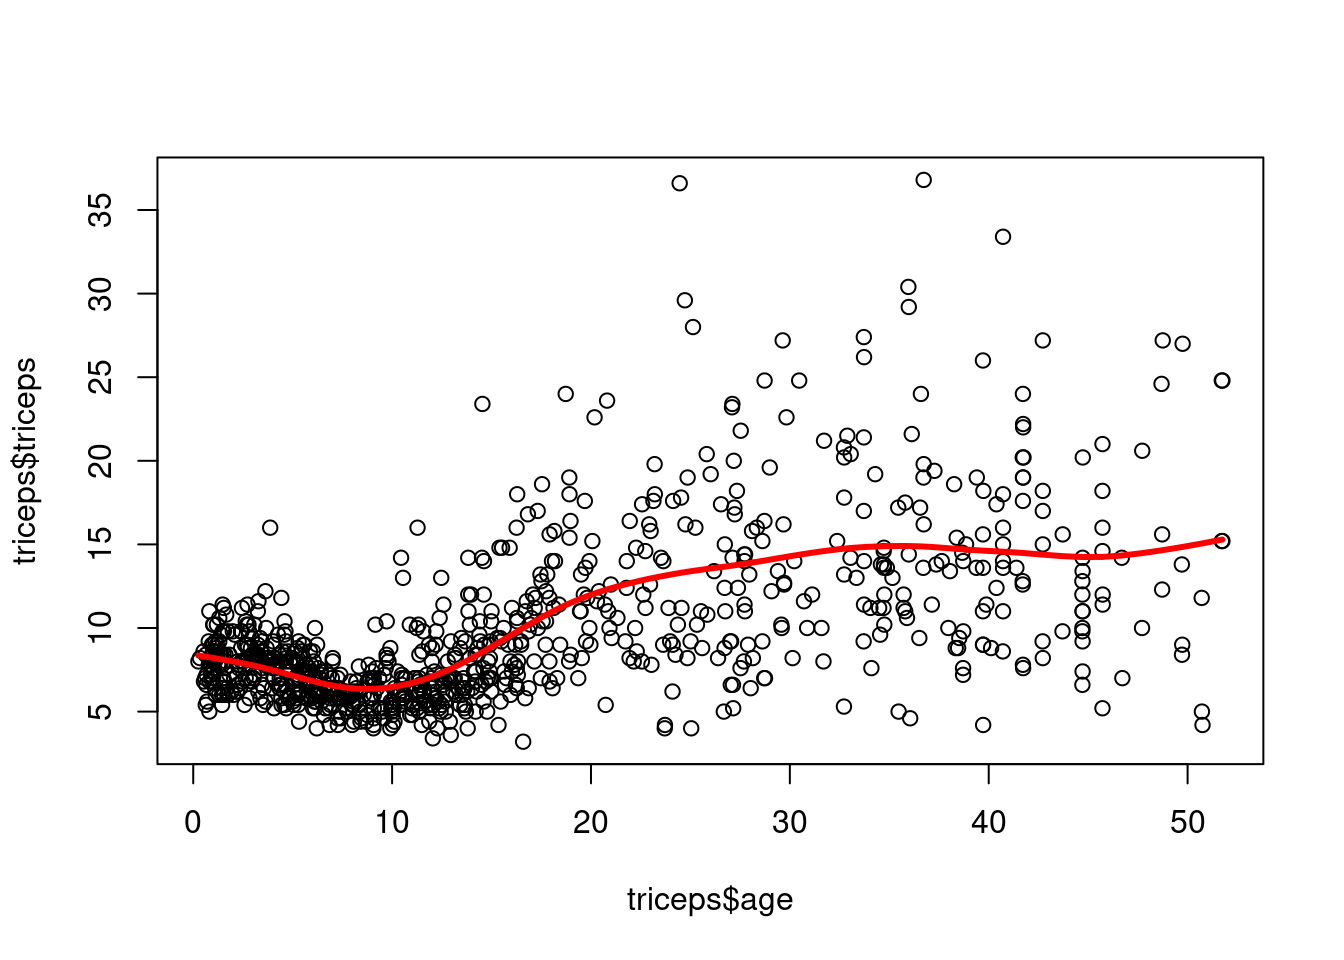
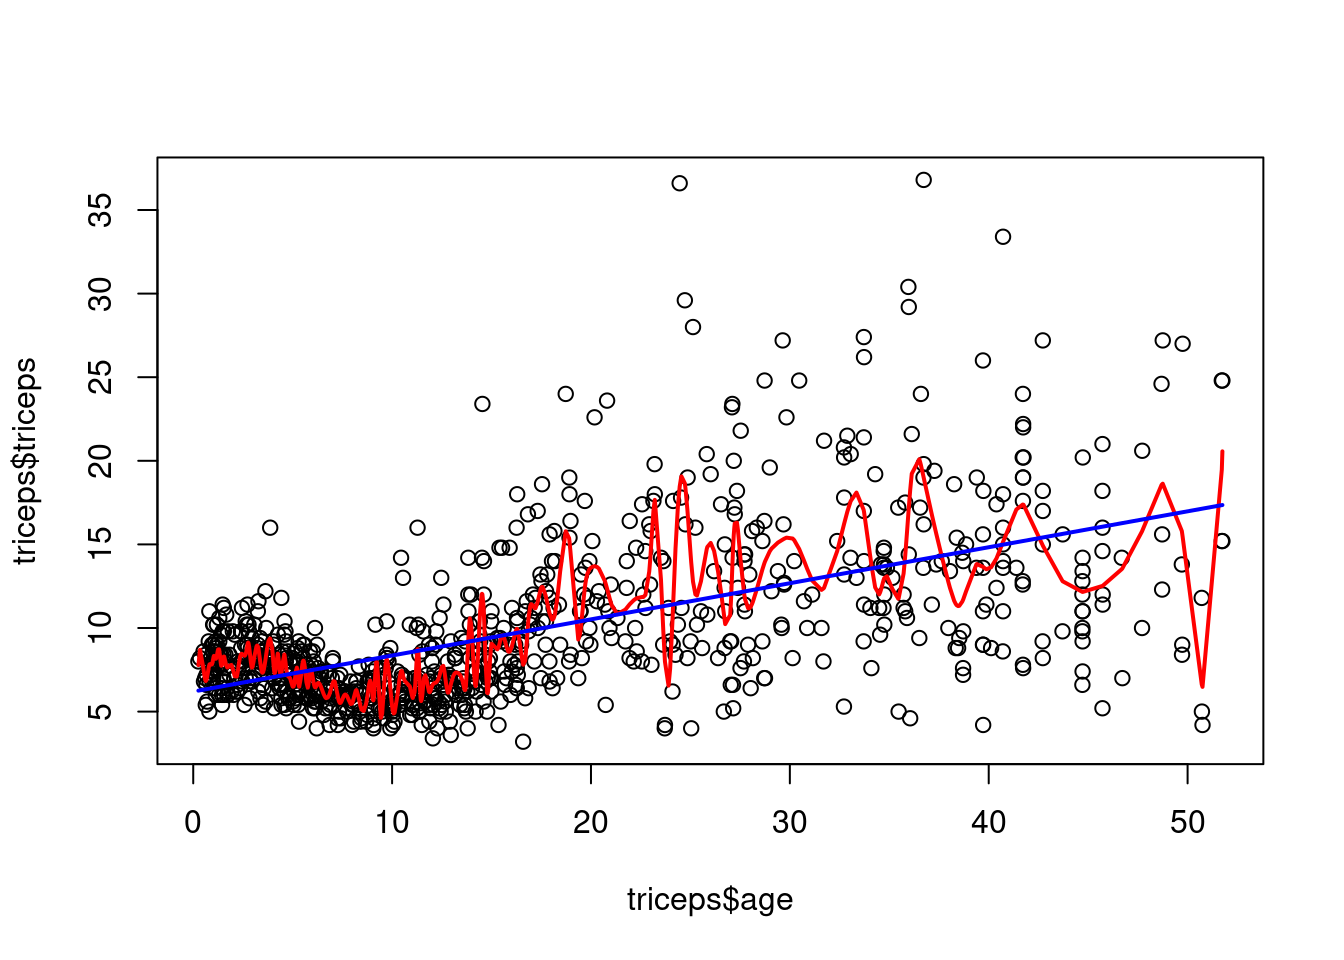
smoothspline new

Changed region(s): [[0.125, 0.4688, 0.9375, 0.75]]

diff --git a/docs/posts/fromLMtoSplines/index.html b/docs/posts/fromLMtoSplines/index.html
@@ -202,7 +202,13 @@ code span.wa { color: #60a0b0; font-weight: bold; font-style: italic; } /* Warni
   <li><a href="#natural-spline" id="toc-natural-spline" class="nav-link" data-scroll-target="#natural-spline">Natural Spline</a></li>
   </ul>
 </li>
-  <li><a href="#smoothing-splines" id="toc-smoothing-splines" class="nav-link" data-scroll-target="#smoothing-splines">Smoothing splines</a></li>
+  <li>
+<a href="#smoothing-splines" id="toc-smoothing-splines" class="nav-link" data-scroll-target="#smoothing-splines">Smoothing splines</a>
+  <ul class="collapse">
+<li><a href="#lambda-determined-with-cross-validation" id="toc-lambda-determined-with-cross-validation" class="nav-link" data-scroll-target="#lambda-determined-with-cross-validation"><span class="math inline">\(\lambda\)</span> determined with cross-validation</a></li>
+  <li><a href="#no-smooth-and-max-smooth" id="toc-no-smooth-and-max-smooth" class="nav-link" data-scroll-target="#no-smooth-and-max-smooth">No smooth and max smooth</a></li>
+  </ul>
+</li>
   <li><a href="#generalized-additive-model" id="toc-generalized-additive-model" class="nav-link" data-scroll-target="#generalized-additive-model">Generalized additive model</a></li>
   </ul></nav>
     </div>
@@ -474,6 +480,8 @@ Attaching package: 'psych'</code></pre>
 \tag{1}\]</span></span></p>
 <p>where <span class="math inline">\(\lambda\)</span> is a fixed smoothing parameter. The first term measures closeness to the data, while the second term penalizes curvature in the function, and <span class="math inline">\(\lambda\)</span> establishes a tradeoff between the two. Special cases: <span class="math inline">\(\lambda=0\)</span> (no constraint on <span class="math inline">\(f\)</span>) and <span class="math inline">\(\lambda=\infty\)</span> (<span class="math inline">\(f\)</span> has to be linear).</p>
 <p>The function <span class="math inline">\(f(x)\)</span> that minimizes (<a href="#eq-RSS">Equation&nbsp;1</a>) can be shown to have some special properties: it is a piecewise cubic polynomial with knots at the unique values of <span class="math inline">\(x_1,\dots,x_n\)</span> and continuous first and second derivatives at each knot. Furthermore, it is linear in the region outside of the extreme knots. In other words, the function <span class="math inline">\(f(x)\)</span> that minimizes (<a href="#eq-RSS">Equation&nbsp;1</a>) is a natural cubic spline with knots at <span class="math inline">\(x_1,\dots,x_n\)</span> ! However, it is not the same natural cubic spline that one would get if one applied the basis function approach described above – rather, it is a shrunken version of such a natural cubic spline, where the value of the tuning parameter <span class="math inline">\(\lambda\)</span> in (<a href="#eq-RSS">Equation&nbsp;1</a>) controls the level of shrinkage.</p>
+<section id="lambda-determined-with-cross-validation" class="level2"><h2 class="anchored" data-anchor-id="lambda-determined-with-cross-validation">
+<span class="math inline">\(\lambda\)</span> determined with cross-validation</h2>
 <div class="cell">
 <details><summary>Code</summary><div class="sourceCode" id="cb20"><pre class="downlit sourceCode r code-with-copy"><code class="sourceCode R"><span><span class="va">sspline</span> <span class="op">&lt;-</span> <span class="fu"><a href="https://rdrr.io/r/stats/smooth.spline.html">smooth.spline</a></span><span class="op">(</span>x<span class="op">=</span><span class="va">triceps</span><span class="op">$</span><span class="va">age</span>, y<span class="op">=</span><span class="va">triceps</span><span class="op">$</span><span class="va">triceps</span>, cv<span class="op">=</span><span class="cn">TRUE</span><span class="op">)</span></span></code><button title="Copy to Clipboard" class="code-copy-button"><i class="bi"></i></button></pre></div>
 </details><div class="cell-output cell-output-stderr">
@@ -486,19 +494,30 @@ seems doubtful</code></pre>
 <p><img src="index_files/figure-html/unnamed-chunk-20-1.png" class="img-fluid" width="672"></p>
 </div>
 </div>
+</section><section id="no-smooth-and-max-smooth" class="level2"><h2 class="anchored" data-anchor-id="no-smooth-and-max-smooth">No smooth and max smooth</h2>
+<div class="cell">
+<details><summary>Code</summary><div class="sourceCode" id="cb23"><pre class="downlit sourceCode r code-with-copy"><code class="sourceCode R"><span><span class="va">ssplineNosmooth</span> <span class="op">&lt;-</span> <span class="fu"><a href="https://rdrr.io/r/stats/smooth.spline.html">smooth.spline</a></span><span class="op">(</span>x<span class="op">=</span><span class="va">triceps</span><span class="op">$</span><span class="va">age</span>, y<span class="op">=</span><span class="va">triceps</span><span class="op">$</span><span class="va">triceps</span>, lambda<span class="op">=</span><span class="fl">0</span><span class="op">)</span></span>
+<span><span class="va">ssplineMaxsmooth</span> <span class="op">&lt;-</span> <span class="fu"><a href="https://rdrr.io/r/stats/smooth.spline.html">smooth.spline</a></span><span class="op">(</span>x<span class="op">=</span><span class="va">triceps</span><span class="op">$</span><span class="va">age</span>, y<span class="op">=</span><span class="va">triceps</span><span class="op">$</span><span class="va">triceps</span>, lambda<span class="op">=</span><span class="fl">100</span><span class="op">)</span></span>
+<span><span class="fu"><a href="https://rdrr.io/r/graphics/plot.default.html">plot</a></span><span class="op">(</span><span class="va">triceps</span><span class="op">$</span><span class="va">age</span>, <span class="va">triceps</span><span class="op">$</span><span class="va">triceps</span><span class="op">)</span></span>
+<span><span class="fu"><a href="https://rdrr.io/r/graphics/lines.html">lines</a></span><span class="op">(</span><span class="va">ssplineNosmooth</span>, lwd<span class="op">=</span><span class="fl">2</span>,col<span class="op">=</span><span class="st">"red"</span><span class="op">)</span></span>
+<span><span class="fu"><a href="https://rdrr.io/r/graphics/lines.html">lines</a></span><span class="op">(</span><span class="va">ssplineMaxsmooth</span>, lwd<span class="op">=</span><span class="fl">2</span>,col<span class="op">=</span><span class="st">"blue"</span><span class="op">)</span></span></code><button title="Copy to Clipboard" class="code-copy-button"><i class="bi"></i></button></pre></div>
+</details><div class="cell-output-display">
+<p><img src="index_files/figure-html/unnamed-chunk-22-1.png" class="img-fluid" width="672"></p>
+</div>
+</div>
 <div class="cell">
 
 </div>
-</section><section id="generalized-additive-model" class="level1"><h1>Generalized additive model</h1>
+</section></section><section id="generalized-additive-model" class="level1"><h1>Generalized additive model</h1>
 <div class="cell">
-<details><summary>Code</summary><div class="sourceCode" id="cb23"><pre class="downlit sourceCode r code-with-copy"><code class="sourceCode R"><span><span class="kw"><a href="https://rdrr.io/r/base/library.html">library</a></span><span class="op">(</span><span class="va">mgcv</span><span class="op">)</span></span></code><button title="Copy to Clipboard" class="code-copy-button"><i class="bi"></i></button></pre></div>
+<details><summary>Code</summary><div class="sourceCode" id="cb24"><pre class="downlit sourceCode r code-with-copy"><code class="sourceCode R"><span><span class="kw"><a href="https://rdrr.io/r/base/library.html">library</a></span><span class="op">(</span><span class="va">mgcv</span><span class="op">)</span></span></code><button title="Copy to Clipboard" class="code-copy-button"><i class="bi"></i></button></pre></div>
 </details><div class="cell-output cell-output-stderr">
 <pre><code>Loading required package: nlme</code></pre>
 </div>
 <div class="cell-output cell-output-stderr">
 <pre><code>This is mgcv 1.8-35. For overview type 'help("mgcv-package")'.</code></pre>
 </div>
-<details><summary>Code</summary><div class="sourceCode" id="cb26"><pre class="downlit sourceCode r code-with-copy"><code class="sourceCode R"><span><span class="va">gamtri</span><span class="op">&lt;-</span><span class="fu"><a href="https://rdrr.io/pkg/mgcv/man/gam.html">gam</a></span><span class="op">(</span><span class="va">triceps</span><span class="op">~</span><span class="fu"><a href="https://rdrr.io/pkg/mgcv/man/s.html">s</a></span><span class="op">(</span><span class="va">age</span>,bs<span class="op">=</span><span class="st">"cr"</span><span class="op">)</span>,data<span class="op">=</span><span class="va">triceps</span><span class="op">)</span></span>
+<details><summary>Code</summary><div class="sourceCode" id="cb27"><pre class="downlit sourceCode r code-with-copy"><code class="sourceCode R"><span><span class="va">gamtri</span><span class="op">&lt;-</span><span class="fu"><a href="https://rdrr.io/pkg/mgcv/man/gam.html">gam</a></span><span class="op">(</span><span class="va">triceps</span><span class="op">~</span><span class="fu"><a href="https://rdrr.io/pkg/mgcv/man/s.html">s</a></span><span class="op">(</span><span class="va">age</span>,bs<span class="op">=</span><span class="st">"cr"</span><span class="op">)</span>,data<span class="op">=</span><span class="va">triceps</span><span class="op">)</span></span>
 <span><span class="fu"><a href="https://rdrr.io/r/base/summary.html">summary</a></span><span class="op">(</span><span class="va">gamtri</span><span class="op">)</span></span></code><button title="Copy to Clipboard" class="code-copy-button"><i class="bi"></i></button></pre></div>
 </details><div class="cell-output cell-output-stdout">
 <pre><code>
@@ -519,7 +538,7 @@ s(age) 6.706  7.539 85.6  &lt;2e-16
 R-sq.(adj) =  0.419   Deviance explained = 42.3%
 GCV =  14.18  Scale est. = 14.057    n = 892</code></pre>
 </div>
-<details><summary>Code</summary><div class="sourceCode" id="cb28"><pre class="downlit sourceCode r code-with-copy"><code class="sourceCode R"><span><span class="fu"><a href="https://rdrr.io/r/graphics/plot.default.html">plot</a></span><span class="op">(</span><span class="va">gamtri</span><span class="op">)</span></span></code><button title="Copy to Clipboard" class="code-copy-button"><i class="bi"></i></button></pre></div>
+<details><summary>Code</summary><div class="sourceCode" id="cb29"><pre class="downlit sourceCode r code-with-copy"><code class="sourceCode R"><span><span class="fu"><a href="https://rdrr.io/r/graphics/plot.default.html">plot</a></span><span class="op">(</span><span class="va">gamtri</span><span class="op">)</span></span></code><button title="Copy to Clipboard" class="code-copy-button"><i class="bi"></i></button></pre></div>
 </details><div class="cell-output-display">
 <p><img src="index_files/figure-html/GAM-1.png" class="img-fluid" width="672"></p>
 </div>

diff --git a/docs/archive.html b/docs/archive.html
@@ -181,7 +181,7 @@ ul.task-list li input[type="checkbox"] {
 
 <div class="quarto-listing quarto-listing-container-default" id="listing-listing">
 <div class="list quarto-listing-default">
-<div class="quarto-post image-right" data-index="0" data-categories="code,analysis" data-listing-date-sort="1665007200000" data-listing-file-modified-sort="1665406509481" data-listing-reading-time-sort="10.005">
+<div class="quarto-post image-right" data-index="0" data-categories="code,analysis" data-listing-date-sort="1665007200000" data-listing-file-modified-sort="1665407108745" data-listing-reading-time-sort="10.105">
 <div class="body">
 <a href="./posts/fromLMtoSplines/index.html">
 <h3 class="no-anchor listing-title">

diff --git a/docs/index.html b/docs/index.html
@@ -206,7 +206,7 @@ ul.task-list li input[type="checkbox"] {
     </div>
 </div>
 <div class="list quarto-listing-default">
-<div class="quarto-post image-right" data-index="0" data-categories="code,analysis" data-listing-date-sort="1665007200000" data-listing-file-modified-sort="1665406509481" data-listing-reading-time-sort="10.005">
+<div class="quarto-post image-right" data-index="0" data-categories="code,analysis" data-listing-date-sort="1665007200000" data-listing-file-modified-sort="1665407108745" data-listing-reading-time-sort="10.105">
 <div class="body">
 <a href="./posts/fromLMtoSplines/index.html">
 <h3 class="no-anchor listing-title">
